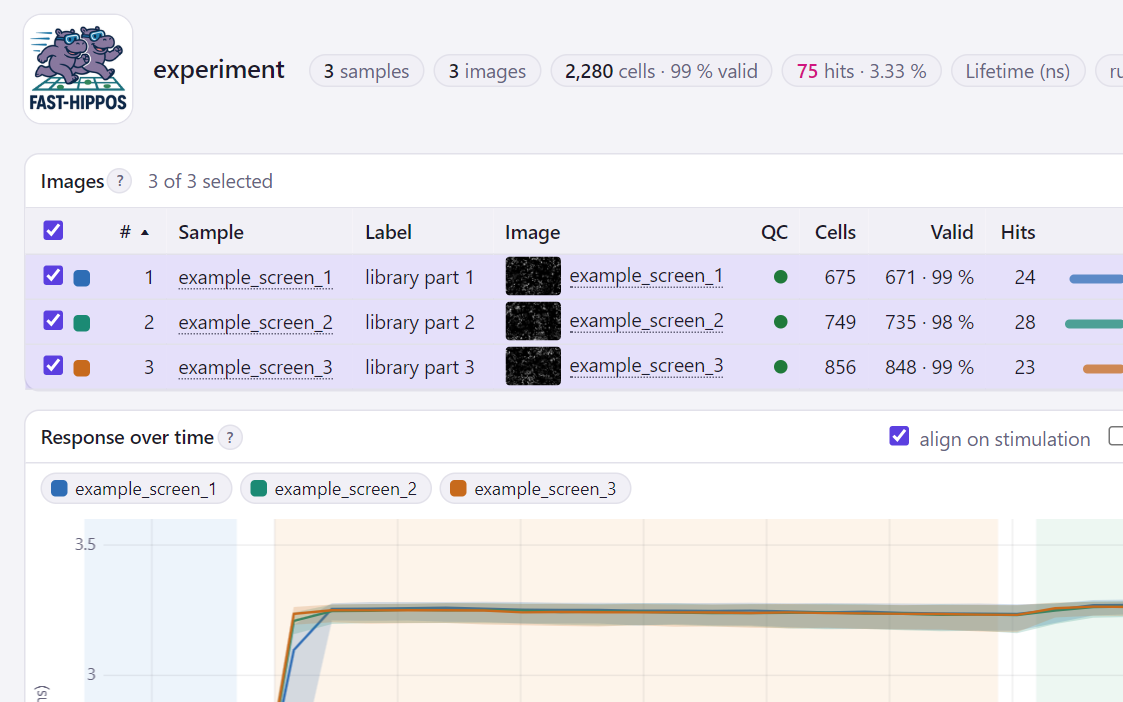
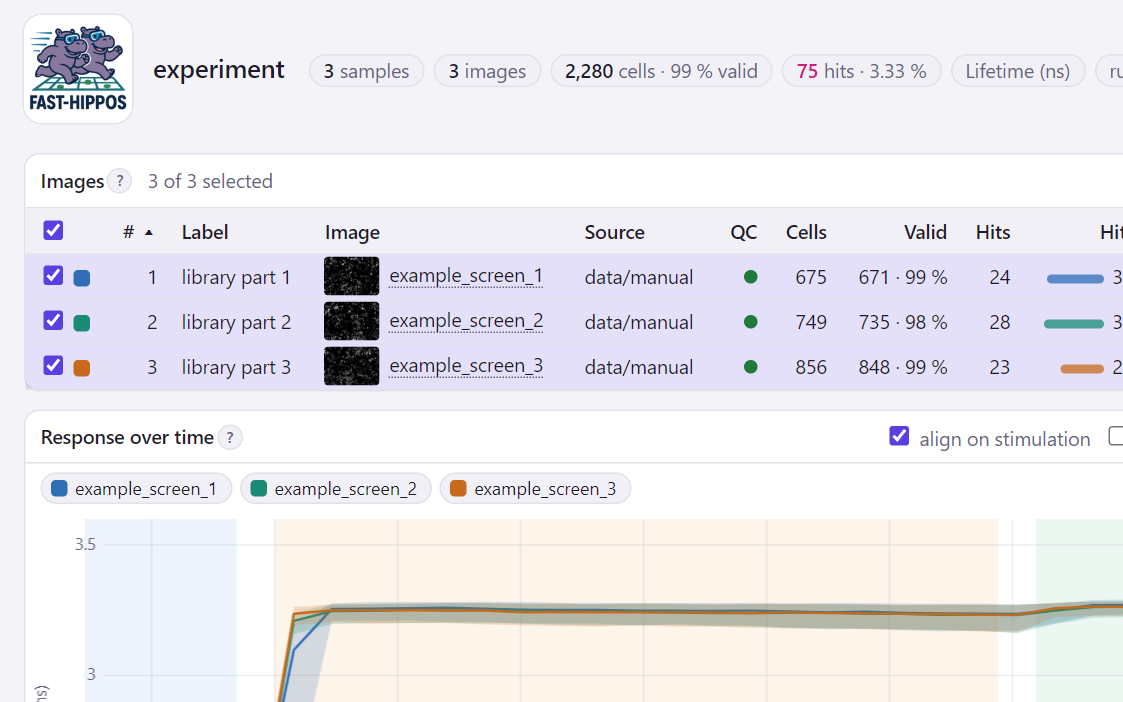
Manual: new screenshots and demo; 'image' in the remaining hover texts

diff --git a/src/fast_hippos/gui.py b/src/fast_hippos/gui.py
@@ -69,15 +69,15 @@ FIELDS: dict[str, dict] = {
     # ---- input
     "input.files": {"label": "Images", "widget": "files",
         "help": "Time-lapse images: .tif (ImageJ hyperstack) or .lif, or a folder of tiles exported from LAS X "
-        "(stitched by the stage positions of the tiles). Each image is a sample of its own, and so is each series of a "
-        ".lif file: Run analysis analyzes them one after the other."},
+        "(stitched by the stage positions of the tiles). Each image, and each series of a .lif file, is analyzed in a "
+        "folder of its own; Run analysis analyzes the ticked ones one after the other."},
     "input.output": {"label": "Output folder", "widget": "folder",
-        "help": "The folder of one sample (one run); the window sets it per sample: <experiment folder>/<sample name>"},
+        "help": "The folder of one image (one run); the window sets it per image: <experiment folder>/<name>"},
     "input.experiment": {"label": "Experiment folder", "widget": "folder",
-        "placeholder": "proposed when you add images", "help": "One folder per sample inside it (each image is a "
-        "sample), and an overview of all samples"},
+        "placeholder": "proposed when you add images", "help": "One folder per image inside it, and the overview of "
+        "all images"},
     "input.sample_label": {"label": "Sample label", "wide": True, "show": {"input.experiment": {"set": True}},
-        "placeholder": "e.g. the condition or library of this sample",
+        "placeholder": "e.g. the condition or library of this image",
         "help": "Shown in the experiment overview, to tell or group the samples"},
     "input.modality": {"label": "Image type", "choices": {
         "tcspc": "Fitted TCSPC data / TauSeparation (2 lifetime components)", "fast_flim": "Fast FLIM",
@@ -214,11 +214,11 @@ FIELDS: dict[str, dict] = {
 # 'help' line under a field stays; this is the fuller explanation. Every setting has one (checked by a test).
 TIPS: dict[str, str] = {
     # ---- images
-    "input.files": "The time-lapse images to analyze. Each image is a sample of its own: a .tif, a folder of tiles "
+    "input.files": "The time-lapse images to analyze. Each image is analyzed in a folder of its own: a .tif, a folder of tiles "
         "exported from LAS X (stitched into one image), or each series of a .lif file (untick the series to leave out). "
         "All are analyzed with the same settings, each in a run of its own, with its own hits and .rgn files.",
-    "input.output": "The folder of one sample (one run): tables, plots, dashboards and .rgn files, with a subfolder per "
-        "image. The window sets it per sample (<experiment folder>/<sample name>); a new run replaces the results in it.",
+    "input.output": "The folder of one image (one run): tables, plots, dashboards and .rgn files. The window sets "
+        "it per image (<experiment folder>/<name>); a new run replaces the results in it.",
     "input.experiment": "The folder that holds one folder per sample, and the overview of all samples (index.html), "
         "updated after every run and re-apply, with a warning when samples were analyzed with different settings. "
         "Adding images without one proposes a folder FAST-HIPPOS next to the images.",

diff --git a/manual/reference/settings.md b/manual/reference/settings.md
@@ -13,7 +13,7 @@ Every setting of the FAST-HIPPOS window, in the order of the window: first the s
 <h3 class="fh-group">Always shown</h3>
 <table class="fh-settings"><thead><tr><th>Setting</th><th>What it does</th><th>Default</th></tr></thead><tbody>
 <tr data-search="experiment folder input.experiment the folder that holds one folder per sample, and the overview of all samples (index.html), updated after every run and re-apply, with a warning when samples were analyzed with different settings. adding images without one proposes a folder fast-hippos next to the images."><td><b>Experiment folder</b><br><code class="fh-key">input.experiment</code></td><td>The folder that holds one folder per sample, and the overview of all samples (index.html), updated after every run and re-apply, with a warning when samples were analyzed with different settings. Adding images without one proposes a folder FAST-HIPPOS next to the images.</td><td>empty</td></tr>
-<tr data-search="images input.files the time-lapse images to analyze. each image is a sample of its own: a .tif, a folder of tiles exported from las x (stitched into one image), or each series of a .lif file (untick the series to leave out). all are analyzed with the same settings, each in a run of its own, with its own hits and .rgn files."><td><b>Images</b><br><code class="fh-key">input.files</code></td><td>The time-lapse images to analyze. Each image is a sample of its own: a .tif, a folder of tiles exported from LAS X (stitched into one image), or each series of a .lif file (untick the series to leave out). All are analyzed with the same settings, each in a run of its own, with its own hits and .rgn files.</td><td>empty</td></tr>
+<tr data-search="images input.files the time-lapse images to analyze. each image is analyzed in a folder of its own: a .tif, a folder of tiles exported from las x (stitched into one image), or each series of a .lif file (untick the series to leave out). all are analyzed with the same settings, each in a run of its own, with its own hits and .rgn files."><td><b>Images</b><br><code class="fh-key">input.files</code></td><td>The time-lapse images to analyze. Each image is analyzed in a folder of its own: a .tif, a folder of tiles exported from LAS X (stitched into one image), or each series of a .lif file (untick the series to leave out). All are analyzed with the same settings, each in a run of its own, with its own hits and .rgn files.</td><td>empty</td></tr>
 <tr data-search="image type input.modality what the pixel values mean, and so how the lifetime (or ratio) per cell is calculated. tcspc: two amplitude images from a 2-component fit (las x / tauseparation). fast flim and taucontrast: an intensity and a lifetime channel. ratio: two intensity channels, the first divided by the second."><td><b>Image type</b><br><code class="fh-key">input.modality</code></td><td>What the pixel values mean, and so how the lifetime (or ratio) per cell is calculated. TCSPC: two amplitude images from a 2-component fit (LAS X / TauSeparation). Fast FLIM and TauContrast: an intensity and a lifetime channel. Ratio: two intensity channels, the first divided by the second.<br><span class="fh-choices"><code>tcspc</code> Fitted TCSPC data / TauSeparation (2 lifetime components) · <code>fast_flim</code> Fast FLIM · <code>tau_contrast</code> TauContrast · <code>fd_flim</code> Frequency-domain FLIM · <code>ratio</code> Ratio imaging (2 channels) · <code>intensity</code> Intensity only</span></td><td>tcspc</td></tr>
 <tr data-search="τ₁ (ns) input.tau1 lifetime (ns) of the first, short component of the 2-component fit. must match the value used for the fit in las x; the cell lifetime is the amplitude-weighted average of τ₁ and τ₂."><td><b>τ₁ (ns)</b><br><code class="fh-key">input.tau1</code></td><td>Lifetime (ns) of the first, short component of the 2-component fit. Must match the value used for the fit in LAS X; the cell lifetime is the amplitude-weighted average of τ₁ and τ₂.</td><td>0.6</td></tr>
 <tr data-search="τ₂ (ns) input.tau2 lifetime (ns) of the second, long component of the 2-component fit. must match the value used for the fit in las x."><td><b>τ₂ (ns)</b><br><code class="fh-key">input.tau2</code></td><td>Lifetime (ns) of the second, long component of the 2-component fit. Must match the value used for the fit in LAS X.</td><td>3.4</td></tr>
@@ -22,7 +22,7 @@ Every setting of the FAST-HIPPOS window, in the order of the window: first the s
 
 <h3 class="fh-group">Per image (the rows of the Images list)</h3>
 <table class="fh-settings"><thead><tr><th>Setting</th><th>What it does</th><th>Default</th></tr></thead><tbody>
-<tr data-search="output folder input.output the folder of one sample (one run): tables, plots, dashboards and .rgn files, with a subfolder per image. the window sets it per sample (&lt;experiment folder&gt;/&lt;sample name&gt;); a new run replaces the results in it."><td><b>Output folder</b><br><code class="fh-key">input.output</code></td><td>The folder of one sample (one run): tables, plots, dashboards and .rgn files, with a subfolder per image. The window sets it per sample (&lt;experiment folder&gt;/&lt;sample name&gt;); a new run replaces the results in it.</td><td>output</td></tr>
+<tr data-search="output folder input.output the folder of one image (one run): tables, plots, dashboards and .rgn files. the window sets it per image (&lt;experiment folder&gt;/&lt;name&gt;); a new run replaces the results in it."><td><b>Output folder</b><br><code class="fh-key">input.output</code></td><td>The folder of one image (one run): tables, plots, dashboards and .rgn files. The window sets it per image (&lt;experiment folder&gt;/&lt;name&gt;); a new run replaces the results in it.</td><td>output</td></tr>
 <tr data-search="sample label input.sample_label a short description of this sample (e.g. its condition, cell line or library), shown in the experiment overview. empty = none."><td><b>Sample label</b><br><code class="fh-key">input.sample_label</code></td><td>A short description of this sample (e.g. its condition, cell line or library), shown in the experiment overview. Empty = none.</td><td>empty</td></tr>
 </tbody></table>
 
